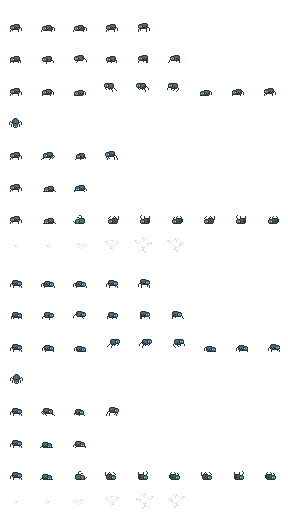
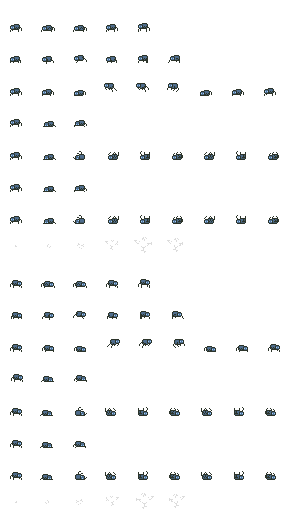
Починены следующие баги: После нажатия след. ход монстры больше не оживают Кнопка хила блокируется Ассеты паука на полотне теперь расположены нормально

diff --git a/Views/InventoryPanel.cs b/Views/InventoryPanel.cs
@@ -13,6 +13,7 @@ namespace Cave_Adventure.Views
         private readonly ArenaFieldControl _arenaFieldControl;
 
         private Label _infoLabel;
+        private Button _healButton;
 
         private Player Player => _arenaFieldControl.Player;
 
@@ -45,7 +46,7 @@ namespace Cave_Adventure.Views
                 Size = this.Size,
                 AutoSize = true
             };
-            var healButton = new Button()
+            _healButton = new Button()
             {
                 Text = $"Полечись",
                 TextAlign = ContentAlignment.MiddleCenter,
@@ -54,7 +55,7 @@ namespace Cave_Adventure.Views
                 AutoSize = true,
                 Enabled = true
             };
-            healButton.Click += (sender, args) =>
+            _healButton.Click += (sender, args) =>
             {
                 var healKit = Player.Inventory.FirstOrDefault(i => i.Tag == ItemType.HealthPotion);
                 if(healKit == null) return;
@@ -78,7 +79,7 @@ namespace Cave_Adventure.Views
             table.Controls.Add(_infoLabel, 1, 1);
             table.Controls.Add(new Panel() { Dock = DockStyle.Fill, BackColor = Color.Black }, 2, 1);
             table.Controls.Add(new Panel() { Dock = DockStyle.Fill, BackColor = Color.Black }, 0, 2);
-            table.Controls.Add(healButton, 1, 2);
+            table.Controls.Add(_healButton, 1, 2);
             table.Controls.Add(new Panel() { Dock = DockStyle.Fill, BackColor = Color.Black }, 2, 2);
             table.Controls.Add(new Panel() { Dock = DockStyle.Fill, BackColor = Color.Black }, 0, 3);
             table.Controls.Add(new Panel() { Dock = DockStyle.Fill, BackColor = Color.White }, 1, 3);
@@ -86,6 +87,11 @@ namespace Cave_Adventure.Views
             table.Controls.Add(new Panel() { Dock = DockStyle.Fill, BackColor = Color.Black }, 0, 4);
             table.Controls.Add(new Panel() { Dock = DockStyle.Fill, BackColor = Color.Red }, 1, 4);
             table.Controls.Add(new Panel() { Dock = DockStyle.Fill, BackColor = Color.Black }, 2, 4);
+        }
+
+        public void OnBlockUnblockUI()
+        {
+            _healButton.Enabled = !_healButton.Enabled;
         }
 
         private string MakeTextForInfoLabel()

diff --git a/ArenaMap.cs b/ArenaMap.cs
@@ -112,6 +112,8 @@ namespace Cave_Adventure
             {
                 foreach (var entity in entities)
                 {
+                    if(entity.IsDead)
+                        continue;
                     entity.IsSelected = true;
                     MoveEntityAlongThePath(entity.Position + new Size(0, -1), entity);
                     while (true)

diff --git a/Views/ArenaPanel.cs b/Views/ArenaPanel.cs
@@ -458,6 +458,7 @@ namespace Cave_Adventure
         
         private void OnBlockUnblockUI()
         {
+            _inventoryPanel.OnBlockUnblockUI();
             _nextTurnButton.Enabled = !_nextTurnButton.Enabled;
             _UIBlocked = !_UIBlocked;
         }
